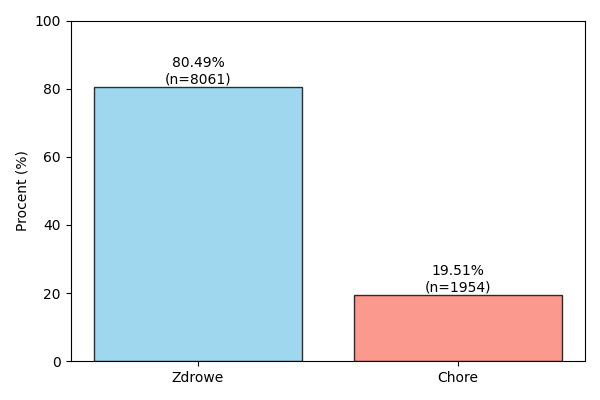
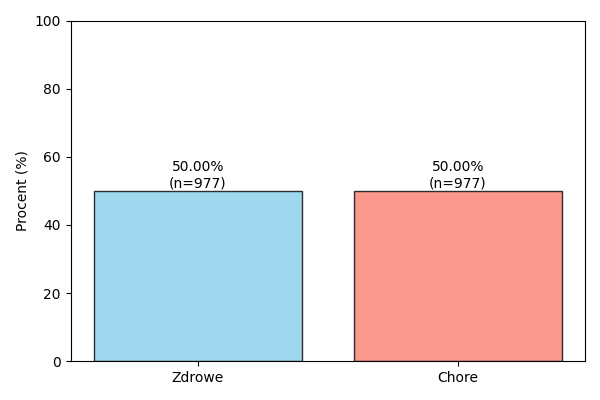
e3 results

Changed region(s): [[0.57, 0.39, 0.96, 0.75], [0.15, 0.12, 0.51, 0.48]]

diff --git a/eksperyment3.py b/eksperyment3.py
@@ -3,7 +3,7 @@ import sys
 import cv2
 import numpy as np
 import pandas as pd
-from sklearn.ensemble import AdaBoostClassifier, RandomForestClassifier
+from sklearn.ensemble import AdaBoostClassifier, RandomForestClassifier, GradientBoostingClassifier
 import os
 from utils.ResultHelper import ResultHelper, plot_class_distribution
 from sklearn.model_selection import RepeatedStratifiedKFold
@@ -67,7 +67,7 @@ def apply_pca(features, n_components=50):
 features = extract_hog_features(images)
 print(f"features {features.shape}")
 # Apply PCA to HOG features
-reduced_features = apply_pca(features, n_components=1000)
+reduced_features = apply_pca(features, n_components=600)
 print(f"reduced {reduced_features.shape}")
 # Combine reduced features with labels and save the dataset
 dataset = np.column_stack((reduced_features, labels))
@@ -90,14 +90,12 @@ elif sys.argv[2] == "CNN":
     sampler = CondensedNearestNeighbour()
     sampling = "cnn"
 
-plot_class_distribution(y, folder_path=path)
-
-rskf = RepeatedStratifiedKFold(n_splits=5, n_repeats=1, random_state=36851234)
+rskf = RepeatedStratifiedKFold(n_splits=2, n_repeats=5, random_state=36851234)
 
 ada_results = ResultHelper(f"ADA_{sampling}", path)
 wrf_results = ResultHelper(f"WRF_{sampling}", path)
 
-iteration = 1
+iteration = 0
 
 for train_index, test_index in rskf.split(X, y):
     print(f"iteration = {iteration}")
@@ -109,6 +107,8 @@ for train_index, test_index in rskf.split(X, y):
     if sampling != NO_SAMPLING:
         print(f"Applying {sampling}")
         X_train, y_train = sampler.fit_resample(X_train, y_train)
+        if iteration == 1:
+            plot_class_distribution(y_train, folder_path=path)
 
     print("Training AdaBoost")
     ada_classifier = AdaBoostClassifier()
@@ -121,12 +121,15 @@ for train_index, test_index in rskf.split(X, y):
 
     ada_results.append_all_scores(y_test, y_pred)
 
-    X_train, X_test = X[train_index], X[test_index]
-    y_train, y_test = y[train_index], y[test_index]
-
     print("Training WRF")
     weight = 20 if sampling == NO_SAMPLING else 1
     wrf_classifier = RandomForestClassifier(class_weight={1: weight, 0: 1})
+    # wrf_classifier = GradientBoostingClassifier(
+    #     n_estimators=200,
+    #     learning_rate=0.05,
+    #     max_depth=3,
+    #     subsample=0.8
+    # )
     wrf_classifier.fit(X_train, y_train)
     y_pred = wrf_classifier.predict(X_test)
 
